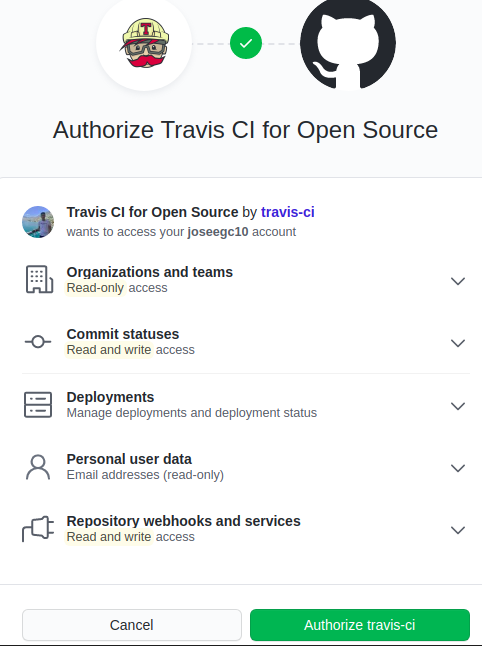
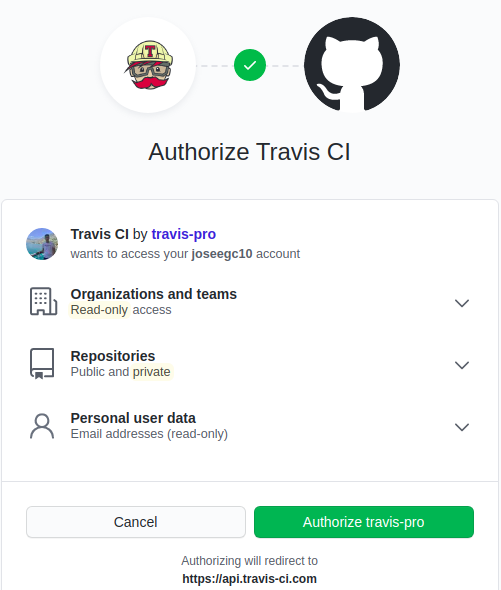
termino doc de configuracion de travis, closes #59

diff --git a/docs/travis/config_travis.md b/docs/travis/config_travis.md
@@ -2,7 +2,7 @@
 
 En este archivo se recogerán los pasos seguidos para la configuración de Travis, de tal forma que quede enlazado con mi repositorio de GitHub. Estos pasos son los siguientes:
 
-1. Nos dirigimos a la [página oficial de Travis](https://travis-ci.org/).
+1. Nos dirigimos a la [página oficial de Travis](https://travis-ci.com/).
 
 2. Pulsamos en el boton Sign Up, para registrarnos.
 
@@ -14,12 +14,14 @@ En este archivo se recogerán los pasos seguidos para la configuración de Travi
 
 5. Ya estamos registrados y enlazados con GitHub. Ahora accedemos al apartado de repositorios.
 
-![repos](https://github.com/joseegc10/get-match/blob/master/docs/img/travis/repositorios.png)
+![repos](https://github.com/joseegc10/get-match/blob/master/docs/img/travis/activate.png)
 
-6. Vemos que detecta correctamente mis repositorios de GitHub. Ahora activamos get-match.
+6. Le damos a Activate.
 
-![get-match](https://github.com/joseegc10/get-match/blob/master/docs/img/travis/get-match.png)
+![get-match](https://github.com/joseegc10/get-match/blob/master/docs/img/travis/approve.png)
 
-7. Volvemos a la pagina principal y vemos que ya se encuentra activado nuestro repositorio.
+7. Seleccionamos nuestro repositorio y le damos a Approve and install.
+
+8. Volvemos a la pagina principal y vemos que ya se encuentra activado nuestro repositorio.
 
 ![fin](https://github.com/joseegc10/get-match/blob/master/docs/img/travis/fin.png)
